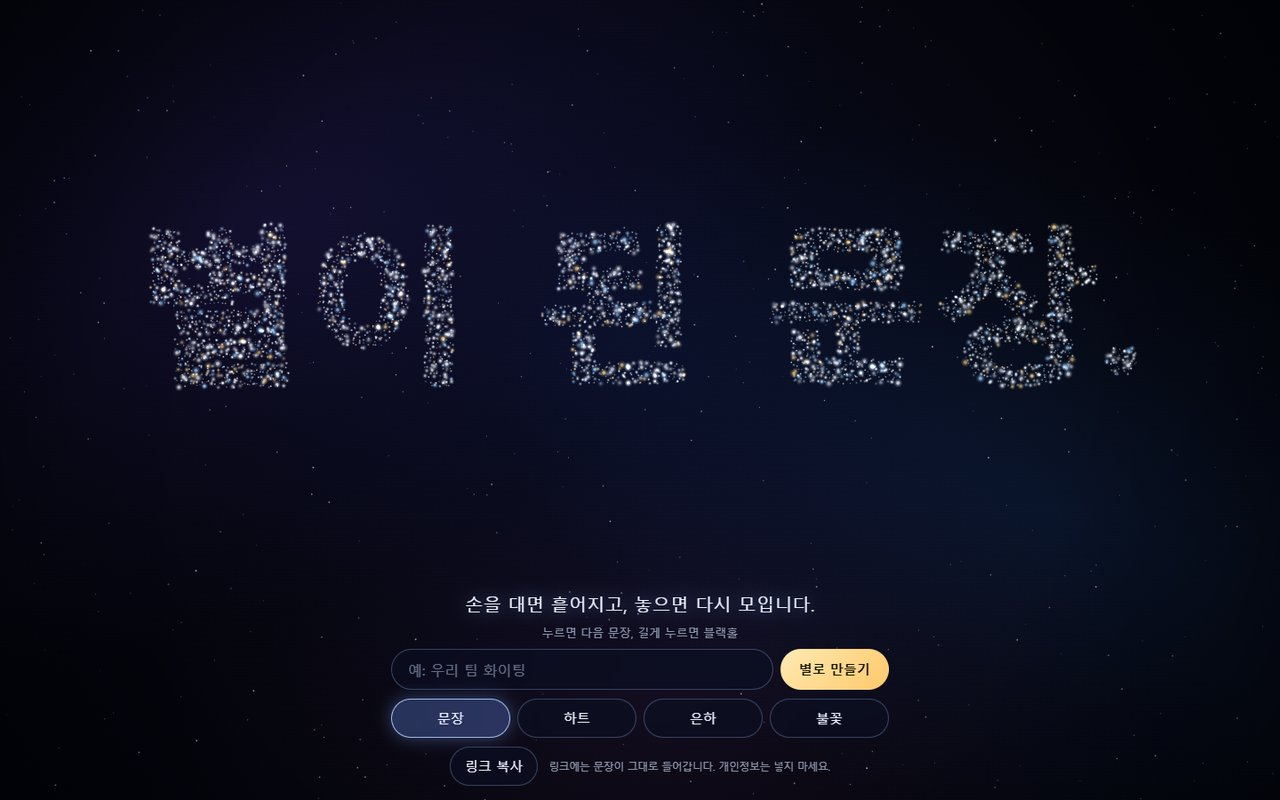
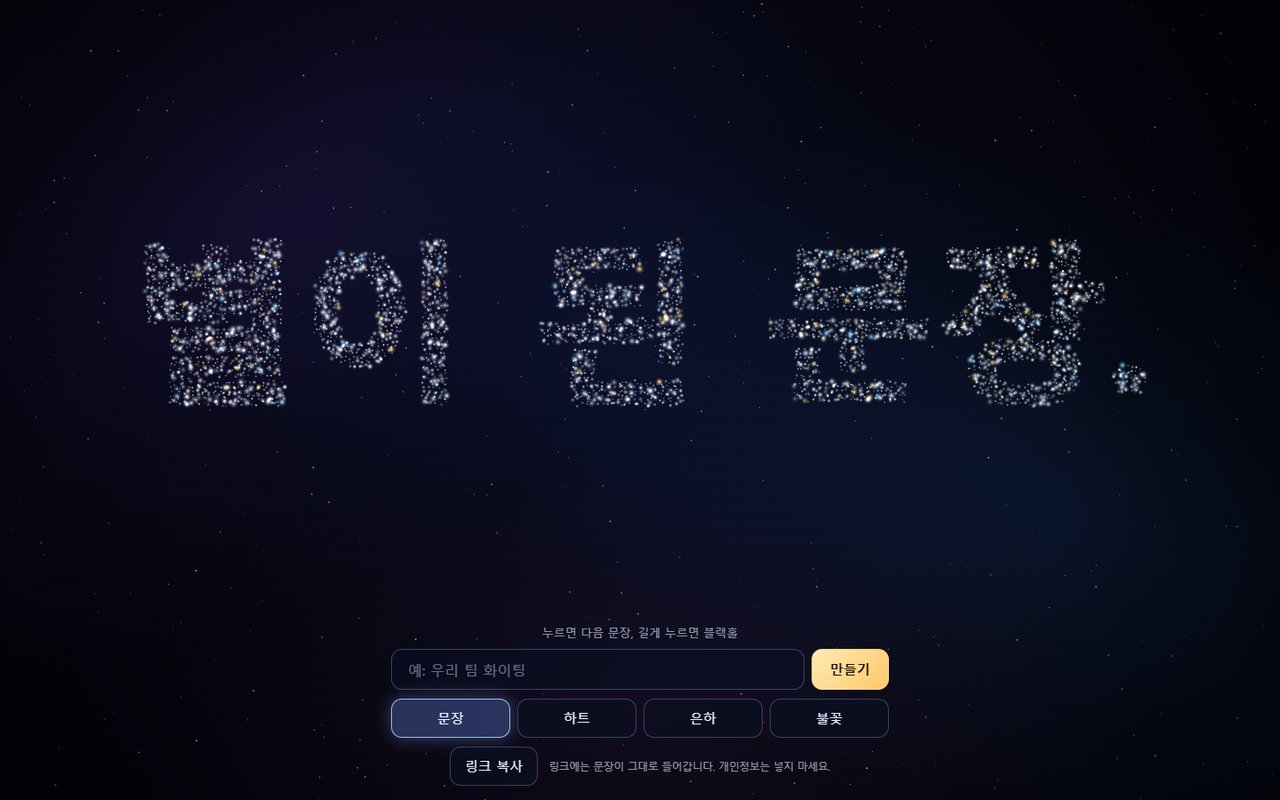
Stardust example: squarer controls, shorter labels, star-dust click effect
- Buttons and input use a smaller corner radius; submit button reads 만들기.
- Removed the subtitle line above the hint.
- Click and supernova now spray twinkling star dust with a soft cross glint
  instead of stroked rings that echoed into several circles through the trail.

diff --git a/public/examples/stardust/index.html b/public/examples/stardust/index.html
@@ -40,10 +40,10 @@ canvas{position:fixed;left:0;top:0;display:block}
 
 input,button{font:inherit;color:var(--ink)}
 .row{display:flex;gap:8px}
-input{flex:1;min-width:0;height:46px;padding:0 18px;font-size:16px;border-radius:23px;border:1px solid var(--line);
+input{flex:1;min-width:0;height:46px;padding:0 18px;font-size:16px;border-radius:12px;border:1px solid var(--line);
   background:var(--glass);-webkit-backdrop-filter:blur(8px);backdrop-filter:blur(8px);-webkit-user-select:text;user-select:text}
 input::placeholder{color:rgba(190,205,240,.5)}
-button{min-height:44px;padding:0 16px;border-radius:23px;border:1px solid var(--line);background:var(--glass);
+button{min-height:44px;padding:0 16px;border-radius:12px;border:1px solid var(--line);background:var(--glass);
   -webkit-backdrop-filter:blur(8px);backdrop-filter:blur(8px);cursor:pointer;font-size:15px;white-space:nowrap;
   transition:background .2s,border-color .2s,box-shadow .2s,transform .1s}
 button:hover{background:rgba(60,80,150,.45);border-color:rgba(180,205,255,.6)}
@@ -71,11 +71,10 @@ button:active{transform:scale(.97)}
 <p id="skip">화면을 누르면 오프닝을 건너뜁니다</p>
 
 <div class="ui" id="ui" role="region" aria-label="별 조작">
-  <p class="sub">손을 대면 흩어지고, 놓으면 다시 모입니다.</p>
   <p class="hint">누르면 다음 문장, 길게 누르면 블랙홀</p>
   <form class="row" id="form" autocomplete="off">
     <input id="msg" type="text" maxlength="20" placeholder="예: 우리 팀 화이팅" aria-label="내 문장 (최대 20자)" enterkeyhint="done" spellcheck="false">
-    <button class="go" type="submit">별로 만들기</button>
+    <button class="go" type="submit">만들기</button>
   </form>
   <div class="shapes" role="group" aria-label="모양 바꾸기">
     <button type="button" data-shape="text" aria-pressed="true">문장</button>
@@ -162,7 +161,7 @@ const anchor = { x: 0, y: 0 };
 const intro = { on: true, t: 0, stage: 0 };   // stage 0 빛, 1 폭발, 2 소용돌이, 3 모임(라이브)
 const bh = { on: false, x: 0, y: 0, t0: 0 };
 const ptr = { x: -999, y: -999, in: false, down: false, t0: 0, skipped: false };
-const shocks = [], rings = [], flashes = [];
+const shocks = [], bursts = [], sparks = [], flashes = [];
 let flashT0 = -9, flashS = 0;
 
 // ---------- 배경 (정적) ----------
@@ -447,13 +446,23 @@ function introStep(dt) {
 // ---------- 조작 효과 ----------
 function shockwave(px, py) {
   shocks.push({ x: px, y: py, R: 0, prev: 0, pw: 1 });
-  rings.push({ x: px, y: py, t: 0, pw: 1, rgb: '190,215,255' });
+  burst(px, py, 1, false);
   tryFlash(px, py, 0.8);
   const { wt, st } = P;
   if (shape !== 'fire') {
     if (shape === 'text') idx = (idx + 1) % list.length;
     updateLive(); buildTargets();
     for (let i = 0; i < N; i++) { wt[i] = 1.2 + rnd() * 0.3; st[i] = 0; }   // 1.2초 뒤 모임
+  }
+}
+// 별 가루가 퍼지고 십자 빛이 잠깐 반짝인다
+function burst(px, py, pw, gold) {
+  bursts.push({ x: px, y: py, t: 0, pw, gold });
+  const n = Math.round((coarse.matches ? 44 : 84) * Math.min(2, pw)), sc = Math.hypot(W, H) / 1700;
+  for (let i = 0; i < n; i++) {
+    const a = rnd() * TAU, v = (220 + 760 * Math.pow(rnd(), 1.6)) * sc * (0.8 + 0.4 * pw), life = 0.8 + rnd() * 0.8;
+    sparks.push({ x: px, y: py, vx: Math.cos(a) * v, vy: Math.sin(a) * v, life, max: life, s: 0.8 + rnd() * 1.3,
+      c: gold ? (rnd() < 0.7 ? 2 : 0) : (rnd() < 0.65 ? 0 : 1), ph: rnd() * TAU });
   }
 }
 function startBH() { bh.on = true; bh.x = ptr.x; bh.y = ptr.y; bh.t0 = T; }
@@ -468,7 +477,7 @@ function supernova(held) {
     if (shape !== 'fire') { wt[i] = 1.1 + 0.5 * pw + rnd() * 0.3; st[i] = 0; }
   }
   shocks.push({ x: bh.x, y: bh.y, R: 0, prev: 0, pw: 0.25 });
-  rings.push({ x: bh.x, y: bh.y, t: 0, pw: 1 + pw, rgb: '255,222,160' });
+  burst(bh.x, bh.y, 1 + pw, true);
   tryFlash(bh.x, bh.y, 1);
 }
 
@@ -521,8 +530,11 @@ function liveStep(dt) {
     x[i] = px; y[i] = py; vx[i] = vxi; vy[i] = vyi;
     if (heat[i] > 0) heat[i] = Math.max(0, heat[i] - dt * 0.7);
   }
-  for (const r of rings) r.t += dt;
-  for (let k = rings.length - 1; k >= 0; k--) if (rings[k].t > 0.8) rings.splice(k, 1);
+  for (const b of bursts) b.t += dt;
+  for (let k = bursts.length - 1; k >= 0; k--) if (bursts[k].t > 0.9) bursts.splice(k, 1);
+  const sd = Math.exp(-1.9 * dt);
+  for (const s of sparks) { s.x += s.vx * dt; s.y += s.vy * dt; s.vx *= sd; s.vy = s.vy * sd + 40 * dt; s.life -= dt; }
+  for (let k = sparks.length - 1; k >= 0; k--) if (sparks[k].life <= 0) sparks.splice(k, 1);
 }
 
 // ---------- 그리기 ----------
@@ -558,10 +570,19 @@ function draw() {
     const g = Math.min(1, (T - bh.t0) / 1.2);
     glow(bh.x, bh.y, 40 + 150 * g, 0.55 * g); glow(bh.x, bh.y, 22 + 30 * g, 0.9 * g);
   }
-  for (const r of rings) {
-    const age = r.t, fade = Math.max(0, 1 - age / 0.8);
-    c.globalAlpha = 0.5 * fade; c.strokeStyle = 'rgb(' + r.rgb + ')'; c.lineWidth = 1.5 + 5 * fade * r.pw;
-    c.beginPath(); c.arc(r.x, r.y, age * SHOCK_V * 0.9, 0, TAU); c.stroke();
+  for (const b of bursts) {                      // 부드러운 빛 번짐과 십자 반짝임
+    const u = b.t / 0.9, f = 1 - u, sp = sprites[b.gold ? 2 : 0];
+    glow(b.x, b.y, 120 + 520 * u * b.pw, 0.14 * f * f);
+    const L = (90 + 160 * b.pw) * (0.35 + 0.65 * Math.sin(Math.min(1, u * 2.2) * Math.PI / 2));
+    c.globalAlpha = Math.min(1, 0.85 * f * f * f * gain);
+    c.drawImage(sp, b.x - L, b.y - 2.2, L * 2, 4.4);
+    c.drawImage(sp, b.x - 2.2, b.y - L * 0.75, 4.4, L * 1.5);
+    c.drawImage(sp, b.x - 9, b.y - 9, 18, 18);
+  }
+  for (const s of sparks) {                      // 퍼지는 별 가루 (잔상이 꼬리가 된다)
+    const k = s.life / s.max, D = s.s * 7 * (0.6 + 0.4 * k);
+    c.globalAlpha = Math.min(1, 1.25 * Math.pow(k, 1.2) * (0.6 + 0.4 * Math.sin(T * 30 + s.ph)));
+    c.drawImage(sprites[s.c], s.x - D / 2, s.y - D / 2, D, D);
   }
 
   if (intro.stage >= 1) {
@@ -692,7 +713,7 @@ copyBtn.addEventListener('click', async () => {
 document.addEventListener('visibilitychange', () => { if (document.hidden) stop(); else start(); });
 const onMotion = e => {
   reduced = e.matches; document.body.classList.toggle('reduced', reduced);
-  if (reduced) { stop(); intro.on = false; intro.stage = 3; document.body.classList.add('ready'); bgc.style.opacity = 1; shocks.length = rings.length = 0; bh.on = false; snapStill(); }
+  if (reduced) { stop(); intro.on = false; intro.stage = 3; document.body.classList.add('ready'); bgc.style.opacity = 1; shocks.length = bursts.length = sparks.length = 0; bh.on = false; snapStill(); }
   else { regather(0.3, 0); start(); }
 };
 if (mq.addEventListener) mq.addEventListener('change', onMotion); else if (mq.addListener) mq.addListener(onMotion);
